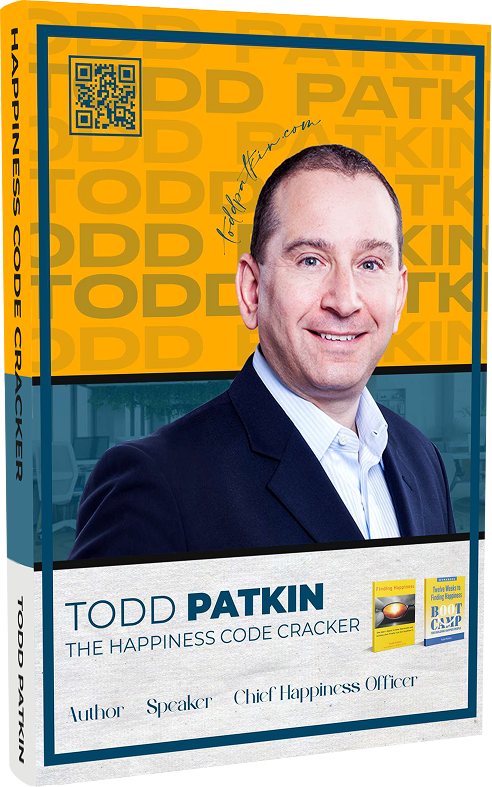
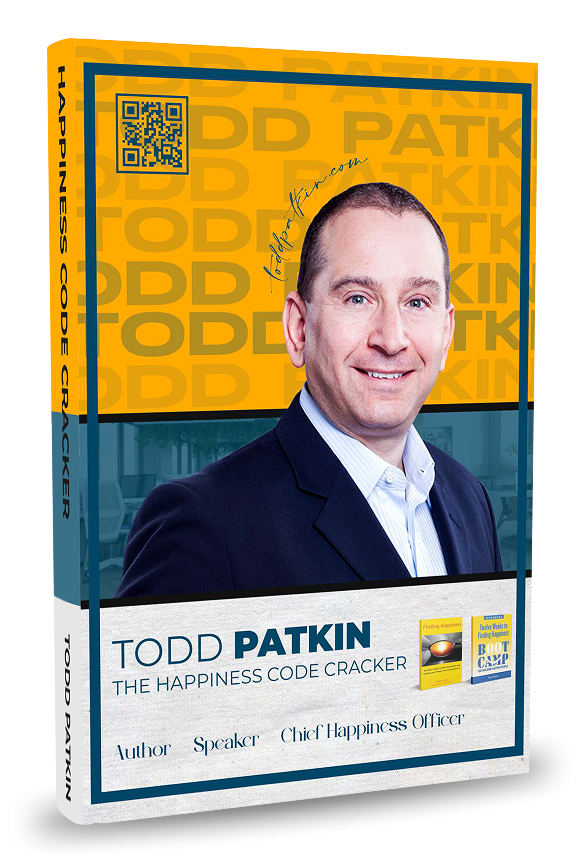
new chnages

diff --git a/wp-content/themes/toddpatkin/templates/template-speaker-reel.php b/wp-content/themes/toddpatkin/templates/template-speaker-reel.php
@@ -327,11 +327,11 @@ document.addEventListener('DOMContentLoaded', function() {
             <div class="col-lg-5 text-center text-lg-start">
                 <div class="book-cover-container" style="position: relative; display: inline-block;">
                     <!-- Decorative Background Element -->
-                    <div style="position: absolute; top: -15px; left: -15px; width: calc(100% + 30px); height: calc(100% + 30px); background: linear-gradient(135deg, rgba(39, 91, 167, 0.1) 0%, rgba(250, 211, 12, 0.1) 100%); border-radius: 16px; z-index: 0;"></div>
+                    <div style="position: absolute; top: -15px; left: -15px; width: calc(100% + 30px); height: calc(100% + 30px);  border-radius: 16px; z-index: 0;"></div>
                     <img src="<?php echo get_template_directory_uri(); ?>/assets/images/speak_reel_book.png" 
                          alt="Happiness Code Cracker Book Cover" 
                          class="img-fluid" 
-                         style="max-width: 450px; border-radius: 12px; box-shadow: 0 12px 30px rgba(0,0,0,0.15); position: relative; z-index: 1; transition: transform 0.3s ease;">
+                         style="max-width: 450px; border-radius: 12px;  position: relative; z-index: 1; transition: transform 0.3s ease;">
                 </div>
             </div>
 
